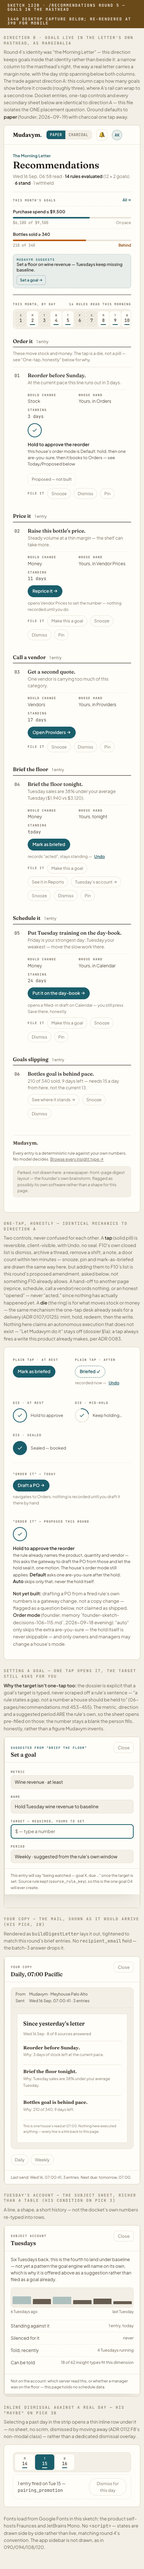
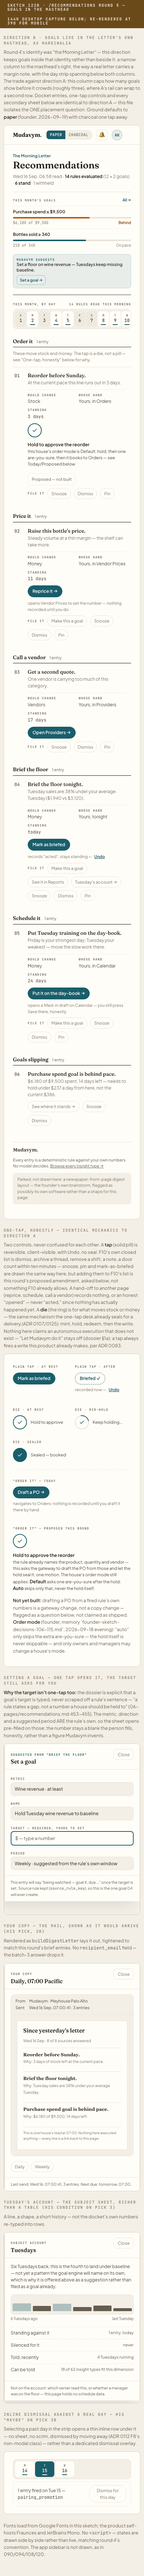
fix(sketches): sketch 122 round 6 — the calendar itself, not just its digits
Round 5's own last call found its "9 days left" fix was still impossible:
Wed 16 Sep is day 16 of a 30-day September, so 16 elapsed + 9 remaining is
25 days, no month. Round 5 had propagated 9 from the bottles goal chip onto
the spend goal chip by grepping for the old wrong string rather than
recomputing, so both were wrong the same way.

Fixed by deriving the calendar once (16 elapsed, 14 remaining) and
re-deriving everything the wrong 9 fed, rather than swapping a digit:

- Both goal chips, the "Goals slipping" entry and its mail line now read
  "14 days left" (6 sites: direction-a.html, direction-b.html).
- At day 16/30 a straight line wants 181 bottles and $5,067 spent. The
  house has 210 bottles (ahead) and has spent $6,180 (22% over). This is
  the reverse of what was drawn, so the `behind`/`gpace behind` class and
  the "Goals slipping" entry/mail-line moved from the bottles chip to the
  spend chip — using the SAME 210/340 and $6,180/$9,500 totals already in
  the file, not new ones. Bottles now reads "On pace"; spend reads
  "Behind," with its own needs-X-a-day sentence recomputed from its own
  numbers (needs to hold under $237/day, not the current $386/day).
- direction-a.html's chart callout ("−38%," correctly sourced from entry
  04's $1,940-vs-$3,120) sat on a bar drawn 58% below its own baseline.
  Moved `.spark i.worst` from height:22% to height:32% of its 46px
  container (baseline unchanged at bottom:52%), which is the bar a −38%
[…]

diff --git a/.planning/sketches/122-recommendations-round-5/direction-a.html b/.planning/sketches/122-recommendations-round-5/direction-a.html
@@ -233,17 +233,17 @@ defaults to <b>paper</b> (founder, 2026-09-19) with charcoal one tap away in the
 
     <div class="rail-label"><span class="micro">What the house has decided</span><a class="lnk" href="#">See all goals →</a></div>
     <div class="goals-rail">
-      <div class="goal-chip">
-        <div class="gname">Purchase spend — at most $9,500</div>
-        <div class="gwhen">this month · 9 days left</div>
-        <div class="gbar"><i style="width:65%"></i></div>
-        <div class="gfoot"><span class="num">$6,180 of $9,500</span><span class="gpace on">On pace</span></div>
-      </div>
       <div class="goal-chip behind">
+        <div class="gname">Purchase spend — at most $9,500</div>
+        <div class="gwhen">this month · 14 days left</div>
+        <div class="gbar"><i style="width:65%"></i></div>
+        <div class="gfoot"><span class="num">$6,180 of $9,500</span><span class="gpace behind">Behind</span></div>
+      </div>
+      <div class="goal-chip">
         <div class="gname">Bottles sold — at least 340</div>
-        <div class="gwhen">this month · 9 days left</div>
+        <div class="gwhen">this month · 14 days left</div>
         <div class="gbar"><i style="width:62%"></i></div>
-        <div class="gfoot"><span class="num">210 of 340</span><span class="gpace behind">Behind</span></div>
+        <div class="gfoot"><span class="num">210 of 340</span><span class="gpace on">On pace</span></div>
       </div>
       <div class="goal-chip suggest">
         <div class="micro seal">Mudavym suggests</div>
@@ -256,7 +256,7 @@ defaults to <b>paper</b> (founder, 2026-09-19) with charcoal one tap away in the
             <i style="height:55%"></i>
             <i class="below" style="height:30%"></i>
             <i class="below" style="height:42%"></i>
-            <i class="below worst" style="height:22%"><b class="gap">−38%</b></i>
+            <i class="below worst" style="height:32%"><b class="gap">−38%</b></i>
           </div>
           <div class="axis"><span>8/11</span><span>8/18</span><span>8/25</span><span>9/1</span><span>9/8</span><span>9/15</span></div>
         </div>
@@ -373,8 +373,8 @@ defaults to <b>paper</b> (founder, 2026-09-19) with charcoal one tap away in the
       <article class="entry">
         <div class="gutter">06</div>
         <div>
-          <p class="do">Bottles goal is behind pace.</p>
-          <p class="why">210 of 340 sold, 9 days left — needs 15 a day from here, not the current 13.</p>
+          <p class="do">Purchase spend goal is behind pace.</p>
+          <p class="why">$6,180 of $9,500 spent, 14 days left — needs to hold under $237 a day from here, not the current $386.</p>
           <div class="controls"><button class="quiet">See where it stands →</button><button class="quiet">Snooze</button><button class="quiet">Dismiss</button></div>
         </div>
       </article>
@@ -489,7 +489,7 @@ address, with a per-person opt-in on Settings.</p>
               <p class="sub">Wed 16 Sep · 8 of 8 sources answered</p>
               <div class="mentry"><b>Reorder before Sunday.</b><span class="why">Why: 3 days of stock left at the current pace.</span></div>
               <div class="mentry"><b>Brief the floor tonight.</b><span class="why">Why: Tuesday sales are 38% under your average Tuesday.</span></div>
-              <div class="mentry"><b>Bottles goal is behind pace.</b><span class="why">Why: 210 of 340, 9 days left.</span></div>
+              <div class="mentry"><b>Purchase spend goal is behind pace.</b><span class="why">Why: $6,180 of $9,500, 14 days left.</span></div>
               <p class="fine">This is one house's read at 07:00. Nothing here executed anything — every line is a link back to this page.</p>
             </div>
           </div>

diff --git a/.planning/sketches/122-recommendations-round-5/direction-b.html b/.planning/sketches/122-recommendations-round-5/direction-b.html
@@ -195,15 +195,15 @@ below are identical to direction A — this file isolates the ONE placement ques
       </div>
       <aside class="mast-goals">
         <div class="mg-label"><span class="micro">This month's goals</span><a class="lnk" href="#">All →</a></div>
-        <div class="mgoal">
+        <div class="mgoal behind">
           <div class="gname">Purchase spend ≤ $9,500</div>
           <div class="gbar"><i style="width:65%"></i></div>
-          <div class="gfoot"><span class="num">$6,180 of $9,500</span><span>On pace</span></div>
+          <div class="gfoot"><span class="num">$6,180 of $9,500</span><span>Behind</span></div>
         </div>
-        <div class="mgoal behind">
+        <div class="mgoal">
           <div class="gname">Bottles sold ≥ 340</div>
           <div class="gbar"><i style="width:62%"></i></div>
-          <div class="gfoot"><span class="num">210 of 340</span><span>Behind</span></div>
+          <div class="gfoot"><span class="num">210 of 340</span><span>On pace</span></div>
         </div>
         <div class="mgoal suggest">
           <div class="micro seal">Mudavym suggests</div>
@@ -345,8 +345,8 @@ below are identical to direction A — this file isolates the ONE placement ques
       <article class="entry">
         <div class="gutter">06</div>
         <div>
-          <p class="do">Bottles goal is behind pace.</p>
-          <p class="why">210 of 340 sold, 9 days left — needs 15 a day from here, not the current 13.</p>
+          <p class="do">Purchase spend goal is behind pace.</p>
+          <p class="why">$6,180 of $9,500 spent, 14 days left — needs to hold under $237 a day from here, not the current $386.</p>
           <div class="controls"><button class="quiet">See where it stands →</button><button class="quiet">Snooze</button><button class="quiet">Dismiss</button></div>
         </div>
       </article>
@@ -459,7 +459,7 @@ a blank the person fills, honestly, rather than a figure Mudavym invents.</p>
               <p class="sub">Wed 16 Sep · 8 of 8 sources answered</p>
               <div class="mentry"><b>Reorder before Sunday.</b><span class="why">Why: 3 days of stock left at the current pace.</span></div>
               <div class="mentry"><b>Brief the floor tonight.</b><span class="why">Why: Tuesday sales are 38% under your average Tuesday.</span></div>
-              <div class="mentry"><b>Bottles goal is behind pace.</b><span class="why">Why: 210 of 340, 9 days left.</span></div>
+              <div class="mentry"><b>Purchase spend goal is behind pace.</b><span class="why">Why: $6,180 of $9,500, 14 days left.</span></div>
               <p class="fine">This is one house's read at 07:00. Nothing here executed anything — every line is a link back to this page.</p>
             </div>
           </div>

diff --git a/.planning/sketches/122-recommendations-round-5/README.md b/.planning/sketches/122-recommendations-round-5/README.md
@@ -231,9 +231,27 @@ also feeds. The five recommendation entries (Order it/`stockout_imminent`, Price
 vendor/`vendor_concentration`, Brief the floor/`sales_below_weekday_baseline`, Schedule it/`weekday_gap`)
 are round 4's own, rewritten brief. Two goals are new, invented for this round from real rows in the
 rule→metric table (`06-pages/recommendations.md:457-469`): purchase spend ≤ $9,500 this month (from
-`spend_acceleration`, on pace) and bottles sold ≥ 340 this month (from `puzzle_activation`/`dead_stock_capital`'s
-metric, behind pace — this is also what feeds the one "Goals slipping" entry, so the two views agree with
-each other rather than each inventing its own number).
+`spend_acceleration`) and bottles sold ≥ 340 this month (from `puzzle_activation`/`dead_stock_capital`'s
+metric).
+
+**The calendar, spelled out so the next reader checks it in one subtraction instead of re-deriving it:**
+September has 30 days; the read date (Wed 16 Sep) is day 16, so this house is **16 days elapsed, 14
+remaining** — not 9, which round 6 found had been propagated from the bottles chip onto the spend chip
+without either being checked against the month itself (round 5 fixed the wrong "22 days left" to a still-wrong
+"9 days left" in six sites, none of them the month's actual arithmetic). Both goal chips now read "14 days
+left." At day 16/30, a straight line wants 340 × 16/30 ≈ 181 bottles and $9,500 × 16/30 ≈ $5,067 spent:
+
+- **Bottles (210 of 340) is *ahead* of that line, not behind** — 210 > 181, and the daily rate needed to
+  finish (130 remaining ÷ 14 days, rounded up so a floor goal is never quietly missed ≈ 10/day) is already
+  below the stated current pace of 13/day (210 ÷ 16 elapsed). It now reads **On pace**.
+- **Spend ($6,180 of $9,500) is *behind* that line** — $6,180 is 22% over the $5,067 straight-line allowance,
+  and holding the cap needs the remaining budget spread thin (($9,500 − $6,180) ÷ 14 days, rounded down so a
+  cap is never quietly busted ≈ $237/day) against a current pace of $386/day ($6,180 ÷ 16 elapsed). It now
+  reads **Behind**, and is the goal that feeds the one "Goals slipping" entry and the mail's third line — the
+  two views still agree with each other, only now against the goal the honest calendar actually puts behind.
+
+Both totals (210 of 340, $6,180 of $9,500) are unchanged from round 4 — this fix moves no invented number,
+only which chip is honestly the behind one once the calendar itself is honest.
 
 ## How to view
 
@@ -251,17 +269,19 @@ own convention, not a live prototype.
 
 ## Screenshots
 
-`shots/direction-a-1440.png` (1440×4895), `shots/direction-a-390.png` (390×7034), `shots/direction-b-1440.png`
-(1440×4937), `shots/direction-b-390.png` (390×6926) — re-rendered in round 5 after the must-fix pass changed
-the goals chart, the "behind" bar, the die labels and the mail sheet. `p4-scratch/render-sketch.mjs` is not
-present in this worktree, so round 5 used an equivalent script (system Chrome via Playwright, the same
-cached build) doing the same three checks: `errors: []`, `horizontalOverflow: false`, and now also a
-`.entry` count (6, matching the corrected "6 stand" in the masthead) on all four renders. Heights grew from
-round 4's own numbers (4714/6592/4805/6533) because the goals chart is now a labelled, baselined chart
-instead of a 30px sliver, and the die rows carry an honesty badge and a longer, order-mode-aware label.
-Additionally spot-checked (not shipped as a file): the goals module rendered with `data-ground="charcoal"`
-at 1440, to confirm the new warm "behind"/"below baseline" color and the die's honesty badge hold contrast
-and legibility in dark mode too; they do.
+`shots/direction-a-1440.png` (1440×4895), `shots/direction-a-390.png` (390×7052), `shots/direction-b-1440.png`
+(1440×4937), `shots/direction-b-390.png` (390×6944) — re-rendered in round 6 after the calendar fix changed
+the goal chips, the goals-slipping entry, the mail's third line and the chart's worst bar. `p4-scratch/
+render-sketch.mjs` is still not present in this worktree, so round 6 used the same equivalent script round 5
+did (system Chrome via Playwright, the same cached `chromium-1217` build), doing the same checks — `errors:
+[]`, `horizontalOverflow: false`, `.entry` count 6, `.mentry` count 3 — on all four renders, plus a fifth,
+geometric check this round added: `.spark .baseline` and `.spark i.worst`'s rendered position, confirming the
+gap between them (see "Round 6" below). Only the two 390-width heights moved (7034→7052, 6926→6944, +18px
+each) — the spend-goal sentence in "Goals slipping" ("needs to hold under $237 a day from here, not the
+current $386") is a few characters longer than the bottles sentence it replaced, wrapping one extra line at
+that width; the two 1440 heights are unchanged (4895, 4937) since nothing there re-wrapped. Round 5's other
+findings (goals chart, die honesty badge, `data-ground="charcoal"` contrast) were not re-tested here — round
+6 touched none of that markup or CSS, only the goal-chip/entry/mail text and one `style="height"` attribute.
 
 One real bug was caught and fixed during this pass, not just a cosmetic one: an early draft hid the ENTIRE
 main page frame at the 390 viewport (a stray `desk-only` class copied from round 4's CSS, whose matching
@@ -269,6 +289,25 @@ mobile markup this round doesn't build) — the first 390 renders showed only th
 of the actual page. Caught by rendering before finalizing, not assumed correct; removing the class restored
 the page at 390 (scroll height went from ~3,600px, which was wrong, to the true ~6,500-6,600px), and both
 files were re-rendered and re-checked after the fix.
+
+**Round 6.** Round 5's own last call found its "9 days left" fix (replacing round 4's impossible "22 days
+left") was itself still impossible — 16 elapsed + 9 remaining is 25 days, no month — and that everything built
+on the wrong 9 needed re-deriving together, not swapped digit-by-digit. Fixed by recomputing from the read
+date (Wed 16 Sep, day 16 of a 30-day September → 16 elapsed, 14 remaining; see "The example house" above for
+the full derivation) rather than picking a new number: both goal chips now say "14 days left"; the honest
+pace math puts **bottles** ahead of its straight line (210 vs. a 181-bottle linear target) and **spend**
+behind its own (`$6,180` vs. a `$5,067` linear allowance, 22% over) — the reverse of what was drawn — so the
+`behind`/`gpace behind` class and the "Goals slipping" entry moved from the bottles chip to the spend chip,
+using the same 210/340 and `$6,180`/`$9,500` totals already in the file, not new ones. The chart's `−38%`
+callout (correct, sourced from entry 04's own `$1,940` vs. `$3,120`) sat on a bar drawn 58% below its own
+baseline, not 38% — `direction-a.html`'s `.goal-chip.suggest .spark i.worst` height moved from `22%` to `32%`
+of its 46px-tall container (`bottom:52%` baseline unchanged), which is `(52−32)÷52 = 38.46%` below baseline,
+confirmed both algebraically and by measuring the rendered bar's height in a live Chromium page (14.72px
+measured against a computed 14.72px for `32% × 46px`). Every one of these six figures was re-derived from the
+read date and the two goals' own totals with `python3`, not eyeballed; the six-line calculation and its output
+are recorded in this lane's session but not shipped as a file here, since the numbers themselves are now in
+the markup and in this section. A repo-wide sweep for the old "9 days"/"22 days" strings and for any remaining
+"Bottles goal is behind" text returned zero hits in both HTML files after the fix.
 
 ## What I could not verify
 
